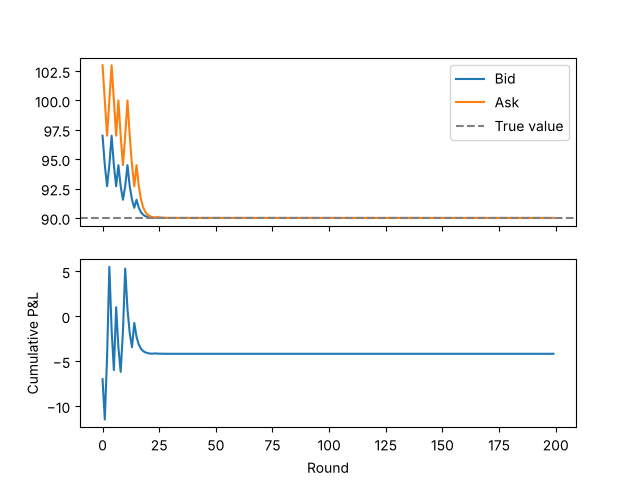
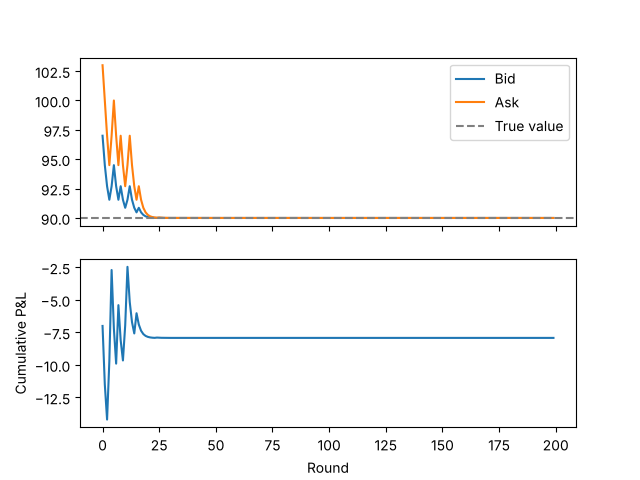
Restructure sim into run_sim(mu, seed); add spread vs mu chart
Claude-Session: https://claude.ai/code/session_01SoDsrrvU4u8t8d6c8f4nZQ

diff --git a/sim.py b/sim.py
@@ -1,75 +1,63 @@
 import matplotlib.pyplot as plt
 import random
 
-random.seed(42)
-
 V_LOW = 90
 V_HIGH = 110
 
-true_value = random.choice([V_LOW, V_HIGH])
-print("True value:", true_value)
-
-p = 0.5  # dealer's belief that the true value is V_HIGH
+N_ROUNDS = 200
 
 def expected_value(belief):
     return belief * V_HIGH + (1 - belief) * V_LOW
 
-print("Dealer's best guess:", expected_value(p))
-
-MU = 0.3  # probability a trader is informed
-
-def trader_order(true_value):
-    if random.random() < MU:
+def trader_order(true_value, mu):
+    if random.random() < mu:
         return "buy" if true_value == V_HIGH else "sell"
     return random.choice(["buy", "sell"])
 
-print("Trader order:", trader_order(true_value))
-
-def prob_buy(value):
+def prob_buy(value, mu):
     if value == V_HIGH:
-        return MU + (1 - MU) / 2
+        return mu + (1 - mu) / 2
     else:
-        return (1 - MU) / 2
+        return (1 - mu) / 2
 
-def belief_after(order, belief):
+def belief_after(order, belief, mu):
     if order == "buy":
-        like_high = prob_buy(V_HIGH)
-        like_low = prob_buy(V_LOW)
+        like_high = prob_buy(V_HIGH, mu)
+        like_low = prob_buy(V_LOW, mu)
     else:
-        like_high = 1 - prob_buy(V_HIGH)
-        like_low = 1 - prob_buy(V_LOW)
+        like_high = 1 - prob_buy(V_HIGH, mu)
+        like_low = 1 - prob_buy(V_LOW, mu)
     top = belief * like_high
     bottom = belief * like_high + (1 - belief) * like_low
     return top / bottom
 
-ask = expected_value(belief_after("buy", p))
-bid = expected_value(belief_after("sell", p))
-print("Bid:", bid, "Ask:", ask)
+def run_sim(mu, seed):
+    random.seed(seed)
+    true_value = random.choice([V_LOW, V_HIGH])
+    p = 0.5  # dealer's belief that the true value is V_HIGH
 
-N_ROUNDS = 200
+    total_pnl = 0
+    bids = []
+    asks = []
+    cum_pnl = []
 
-total_pnl = 0
-bids = []
-asks = []
-cum_pnl = []
+    for t in range(N_ROUNDS):
+        ask = expected_value(belief_after("buy", p, mu))
+        bid = expected_value(belief_after("sell", p, mu))
+        order = trader_order(true_value, mu)
+        if order == "buy":
+            pnl = ask - true_value   # dealer sold at the ask
+        else:
+            pnl = true_value - bid   # dealer bought at the bid
+        total_pnl += pnl
+        bids.append(bid)
+        asks.append(ask)
+        cum_pnl.append(total_pnl)
+        p = belief_after(order, p, mu)
 
-for t in range(N_ROUNDS):
-    ask = expected_value(belief_after("buy", p))
-    bid = expected_value(belief_after("sell", p))
-    order = trader_order(true_value)
-    if order == "buy":
-        pnl = ask - true_value   # dealer sold at the ask
-    else:
-        pnl = true_value - bid   # dealer bought at the bid
-    total_pnl += pnl
-    bids.append(bid)
-    asks.append(ask)
-    cum_pnl.append(total_pnl)
-    if t % 20 == 0:
-        print(t, round(bid, 2), round(ask, 2), round(p, 3))
-    p = belief_after(order, p)
+    return true_value, bids, asks, cum_pnl
 
-print("Total P&L:", round(total_pnl, 2))
+true_value, bids, asks, cum_pnl = run_sim(0.3, 42)
 
 fig, (ax_top, ax_bottom) = plt.subplots(2, 1, sharex=True)
 ax_top.plot(bids, label="Bid")
@@ -80,3 +68,13 @@ ax_bottom.plot(cum_pnl)
 ax_bottom.set_ylabel("Cumulative P&L")
 ax_bottom.set_xlabel("Round")
 fig.savefig("quotes_and_pnl.png")
+
+fig, ax = plt.subplots()
+for mu in [0.1, 0.3, 0.6]:
+    _, bids, asks, _ = run_sim(mu, 42)
+    spreads = [a - b for a, b in zip(asks, bids)]
+    ax.plot(spreads, label=f"mu = {mu}")
+ax.set_xlabel("Round")
+ax.set_ylabel("Spread")
+ax.legend()
+fig.savefig("spread_vs_mu.png")
